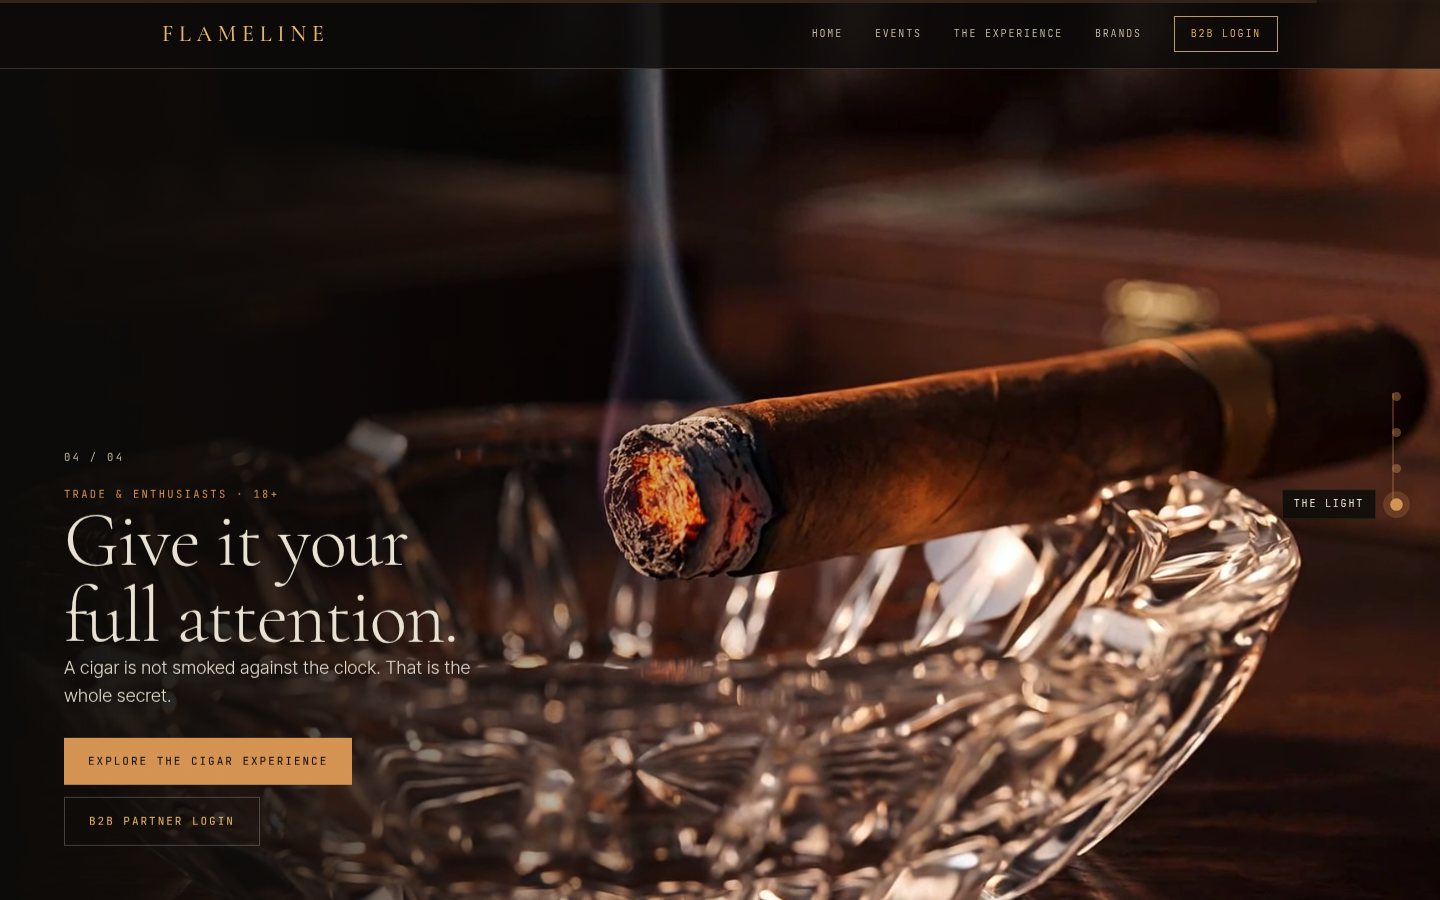
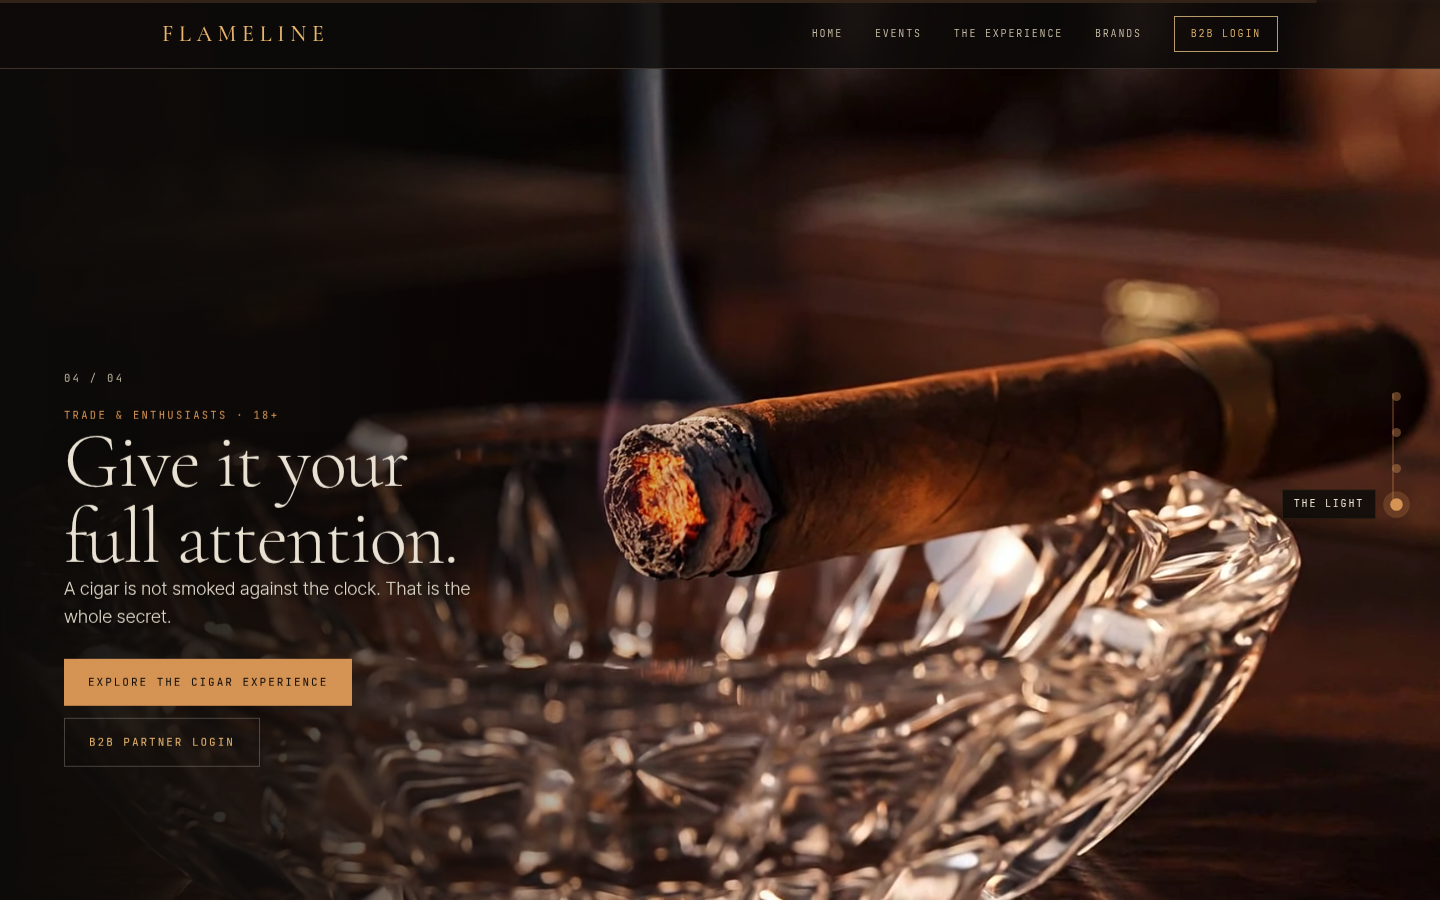
fix: bottom-anchor the film copy so tall blocks clear the viewport; placement assertions in seam QA
Claude-Session: https://claude.ai/code/session_01RKmJ1iWrN7f18RWAJzrLnn

Changed region(s): [[0.0312, 0.4667, 0.3125, 0.8711], [0.0625, 0.9022, 0.1562, 0.9333], [0.0938, 0.4356, 0.1562, 0.4667]]

diff --git a/lib/scroll-world/scrub-engine.js b/lib/scroll-world/scrub-engine.js
@@ -426,7 +426,7 @@ function injectCSS() {
   .sw-scene__still{will-change:transform;} .sw-scene.has-clip .sw-scene__still{opacity:0;} .sw-scene__video{z-index:1;}
   .sw-copylayer{position:fixed;inset:0;z-index:20;pointer-events:none;}
   .sw-copylayer::before{content:"";position:absolute;inset:0;opacity:var(--sw-scrim,1);width:min(58vw,780px);background:linear-gradient(90deg,var(--sw-bg) 0%,color-mix(in srgb,var(--sw-bg) 82%,transparent) 34%,color-mix(in srgb,var(--sw-bg) 40%,transparent) 62%,transparent 100%);}
-  .sw-copy{position:absolute;left:clamp(18px,5vw,64px);top:50%;transform:translateY(-50%);width:min(42vw,460px);opacity:0;will-change:opacity,transform;}
+  .sw-copy{position:absolute;left:clamp(18px,5vw,64px);top:auto;bottom:clamp(96px,14vh,160px);width:min(42vw,460px);opacity:0;will-change:opacity,transform;}   /* bottom-anchored: the scroll drift sets transform inline, so a translateY(-50%) centring would be overwritten and tall blocks would hang off the viewport */
   .sw-copy__num{font-family:var(--sw-font-mono);font-size:10.5px;letter-spacing:.22em;color:var(--sw-ink-soft);}
   .sw-copy__eyebrow{display:block;margin-top:18px;font-family:var(--sw-font-mono);font-weight:400;font-size:10.5px;letter-spacing:.22em;text-transform:uppercase;color:var(--sw-accent);}
   .sw-copy__title{font-family:var(--sw-font-display);font-weight:300;color:var(--sw-ink);font-size:clamp(2.6rem,5.4vw,5rem);line-height:.98;margin:16px 0 0;letter-spacing:-.02em;text-wrap:balance;text-shadow:0 2px 24px color-mix(in srgb,var(--sw-bg) 70%,transparent);}

diff --git a/docs/superpowers/plans/2026-09-27-flameline-scroll-hero.progress.md b/docs/superpowers/plans/2026-09-27-flameline-scroll-hero.progress.md
@@ -91,3 +91,4 @@ Follow-up (user): seam 2 read as a cut and scrolling felt laggy. Ruling: crossfa
 Follow-up: x264 reports the re-encoded clips as Constrained Baseline (fastdecode disables CABAC and -bf 0 removes B-frames, so the stream needs no Main-profile tools); decodes on every browser and is the intended lighter stream. DESIGN.md line 204 synced to 0.4vh.
 Follow-up: the wider crossfade alone did nothing visible — the current scene sat on top at opacity 1 from the seam on, so the band only softened the covered scene. Fixed: the incoming scene fades IN on top over the band and the outgoing holds at 1 beneath it until covered; engine test asserts incoming 0.2–0.8, outgoing > 0.9 and incoming above in z-order at seam+0.15vh — RED→GREEN, suite 31/31, build OK, QA PASS.
 Follow-up: scene copy now stays at zero through the whole dissolve band and ramps in over the next 0.15vh (was ramping inside the band, so the headline was at 50% while the blend was 50/50); engine test extended — RED→GREEN, suite green, build OK, QA PASS.
+Follow-up (user): scene copy sat too low at the end of each scene (finale bottom at 846/900). Cause: .sw-copy was centred with top:50% + translateY(-50%), but the per-frame scroll drift writes an inline transform that overwrites the centring, so the block hung from mid-viewport. Ruling: copy is bottom-anchored at clamp(96px,14vh,160px), matching the phone rule; qa-seams asserts finale and end-of-scene-3 copy bottoms ≤ 0.9vh and top ≥ nav — RED (846, 835) → GREEN — cost if wrong: one CSS line.
